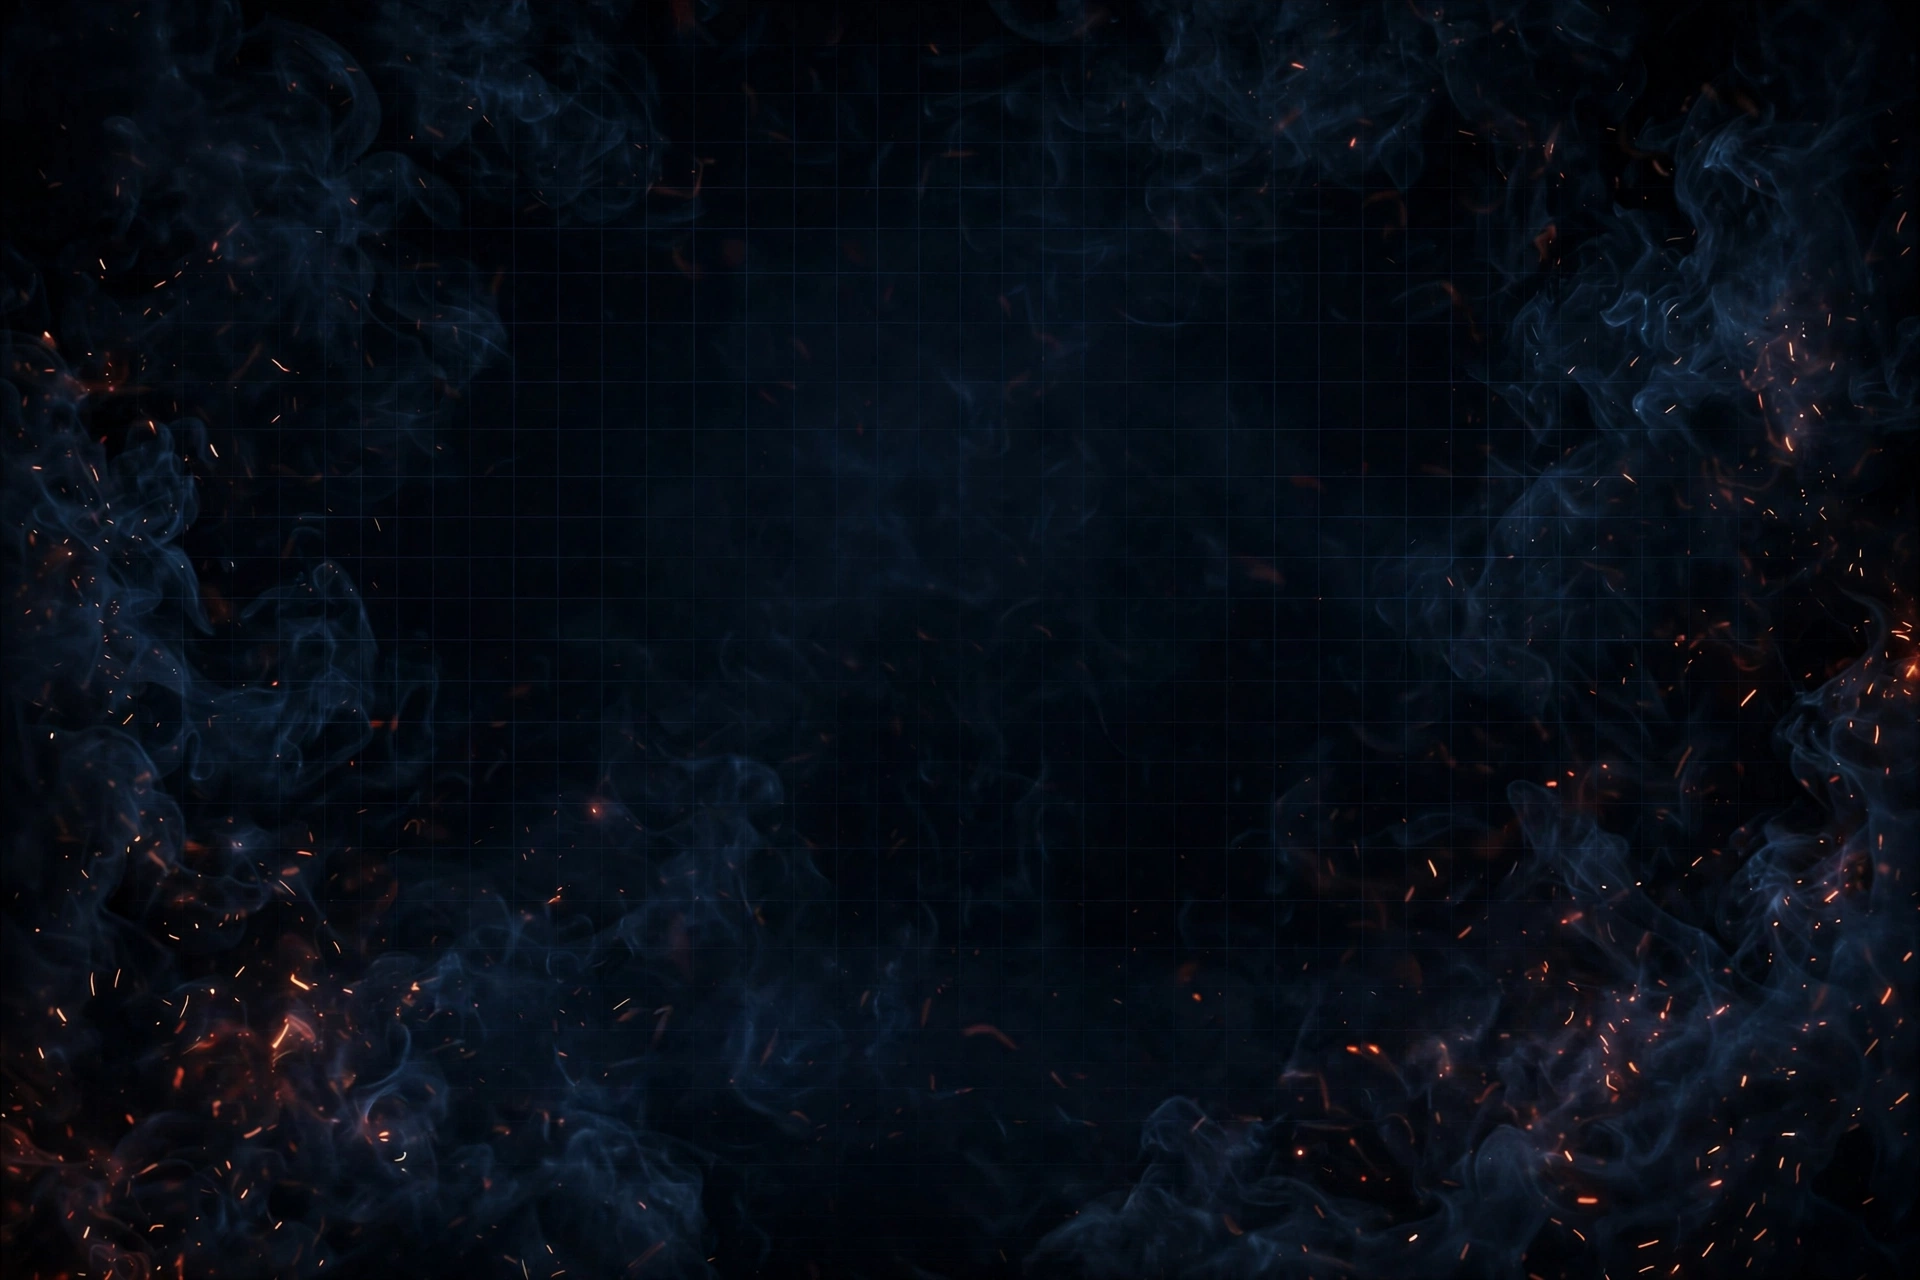
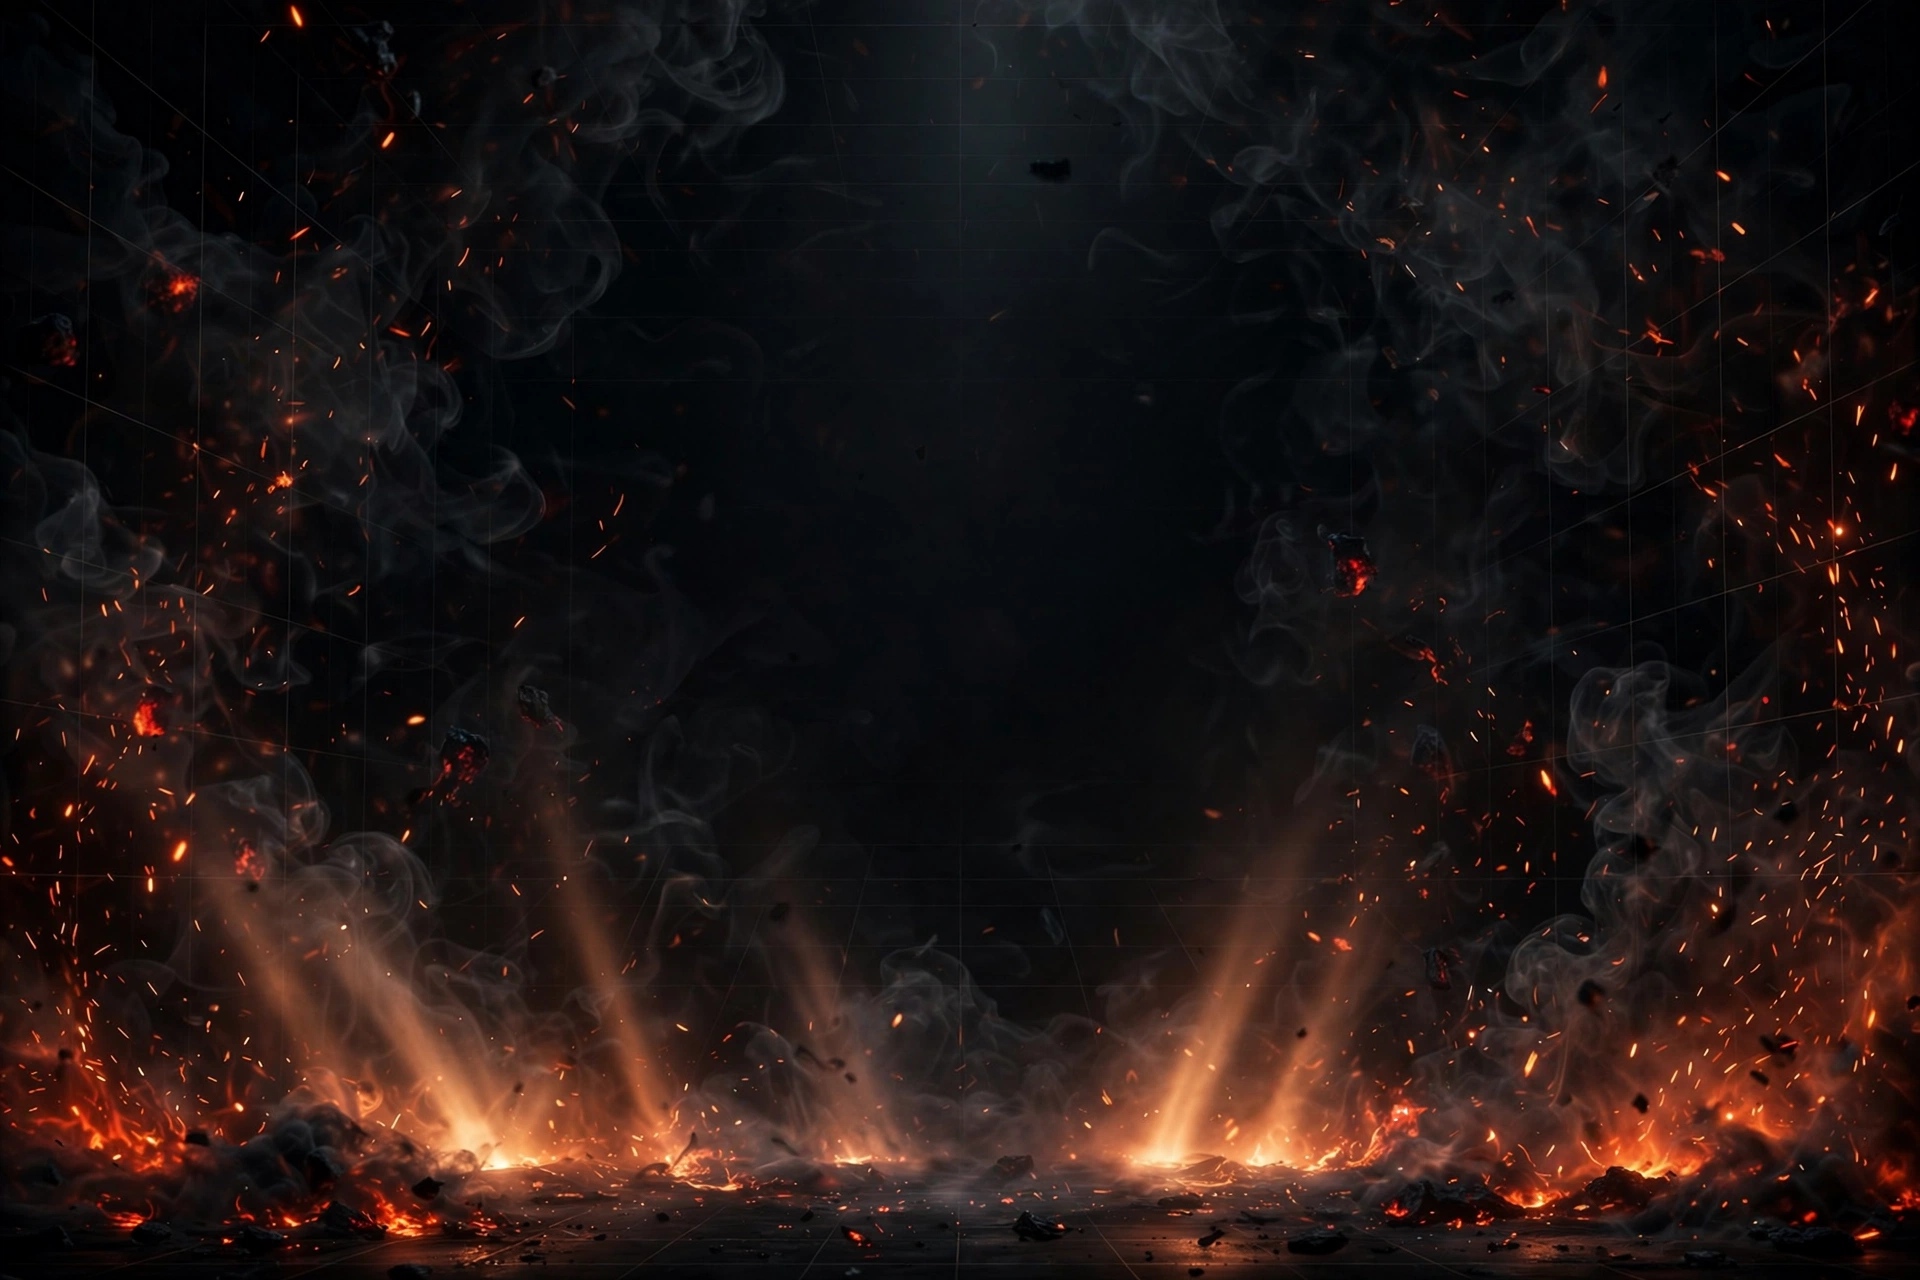
Crash visual upgrade and UX fix

diff --git a/services/crash.py b/services/crash.py
@@ -71,19 +71,38 @@ def crash_animation_gif(crash_point: float, cashout: float | None = None,
                 y = pad_t + ch
             pts.append((x, y))
         if len(pts) > 1:
-            color = (80, 255, 140) if (won or t < 1.0) else (255, 70, 70)
-            d.line(pts, fill=color, width=4)
-            # Glow dot at the head.
+            base = (80, 255, 140) if (won or t < 1.0) else (255, 70, 70)
+            # Layered glow: wide faint, medium, then bright core.
+            d.line(pts, fill=tuple(c // 4 for c in base), width=12)
+            d.line(pts, fill=tuple(c // 2 for c in base), width=7)
+            d.line(pts, fill=base, width=4)
+            # Glow dot at the head with halo.
             hx, hy = pts[-1]
-            d.ellipse([hx - 7, hy - 7, hx + 7, hy + 7], fill=color)
+            d.ellipse([hx - 14, hy - 14, hx + 14, hy + 14],
+                      fill=tuple(c // 4 for c in base))
+            d.ellipse([hx - 8, hy - 8, hx + 8, hy + 8], fill=base)
+            d.ellipse([hx - 3, hy - 3, hx + 3, hy + 3], fill=(255, 255, 255))
 
-        # Multiplier text, big and centered.
-        font = _font(56)
+        # Multiplier text, big and centered, with dark outline for readability.
+        font = _font(64)
         txt = f"{mult:.2f}x"
-        color = (80, 255, 140) if won else ((255, 70, 70) if t >= 1.0 else (255, 255, 255))
+        tcolor = (80, 255, 140) if won else ((255, 70, 70) if t >= 1.0 else (255, 255, 255))
         tb = d.textbbox((0, 0), txt, font=font)
         tw = tb[2] - tb[0]
-        d.text((W / 2 - tw / 2 - tb[0], 12), txt, font=font, fill=color)
+        tx, ty = W / 2 - tw / 2 - tb[0], 10
+        # Outline.
+        for ox, oy in [(-2, 0), (2, 0), (0, -2), (0, 2), (-2, -2), (2, 2), (-2, 2), (2, -2)]:
+            d.text((tx + ox, ty + oy), txt, font=font, fill=(0, 0, 0))
+        d.text((tx, ty), txt, font=font, fill=tcolor)
+
+        # Target indicator.
+        if cashout is not None and won:
+            sfont = _font(20)
+            stxt = f"TARGET {cashout:.2f}x"
+            stb = d.textbbox((0, 0), stxt, font=sfont)
+            stw = stb[2] - stb[0]
+            d.text((W / 2 - stw / 2 - stb[0], 84), stxt, font=sfont,
+                   fill=(80, 255, 140))
 
         out_frames.append(frame)
 
